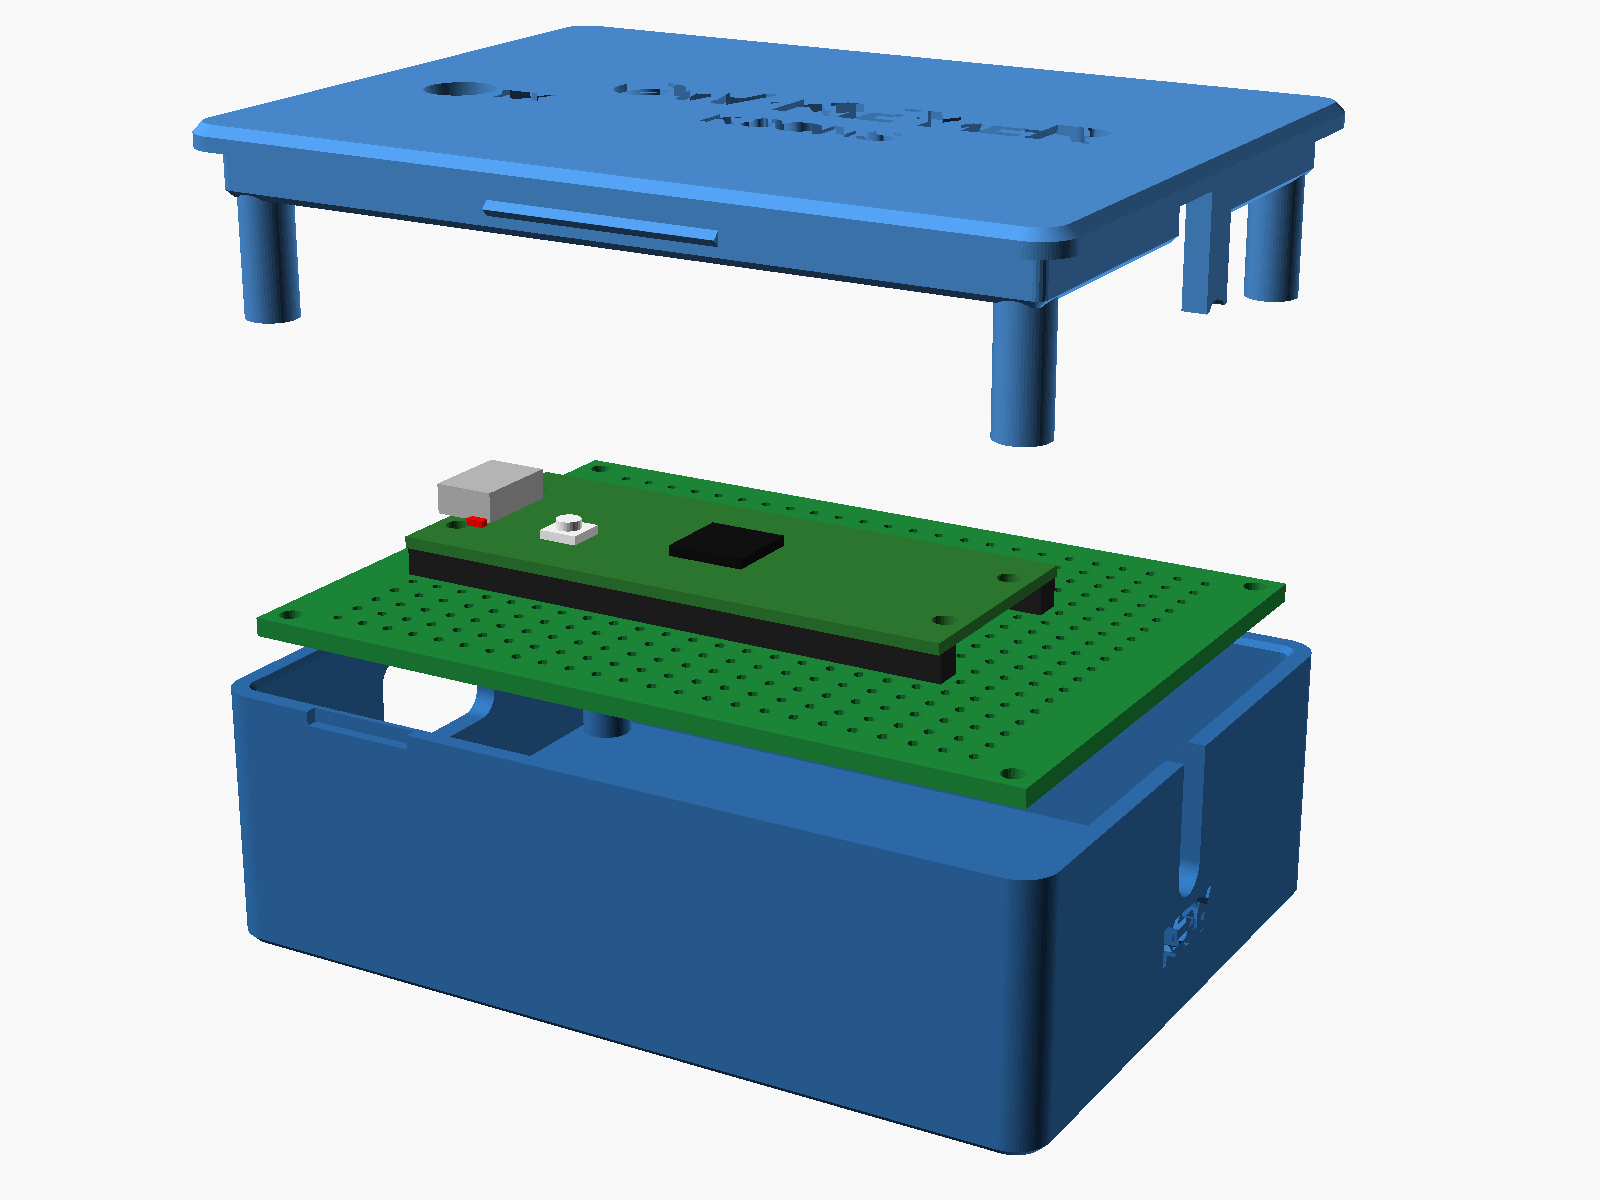
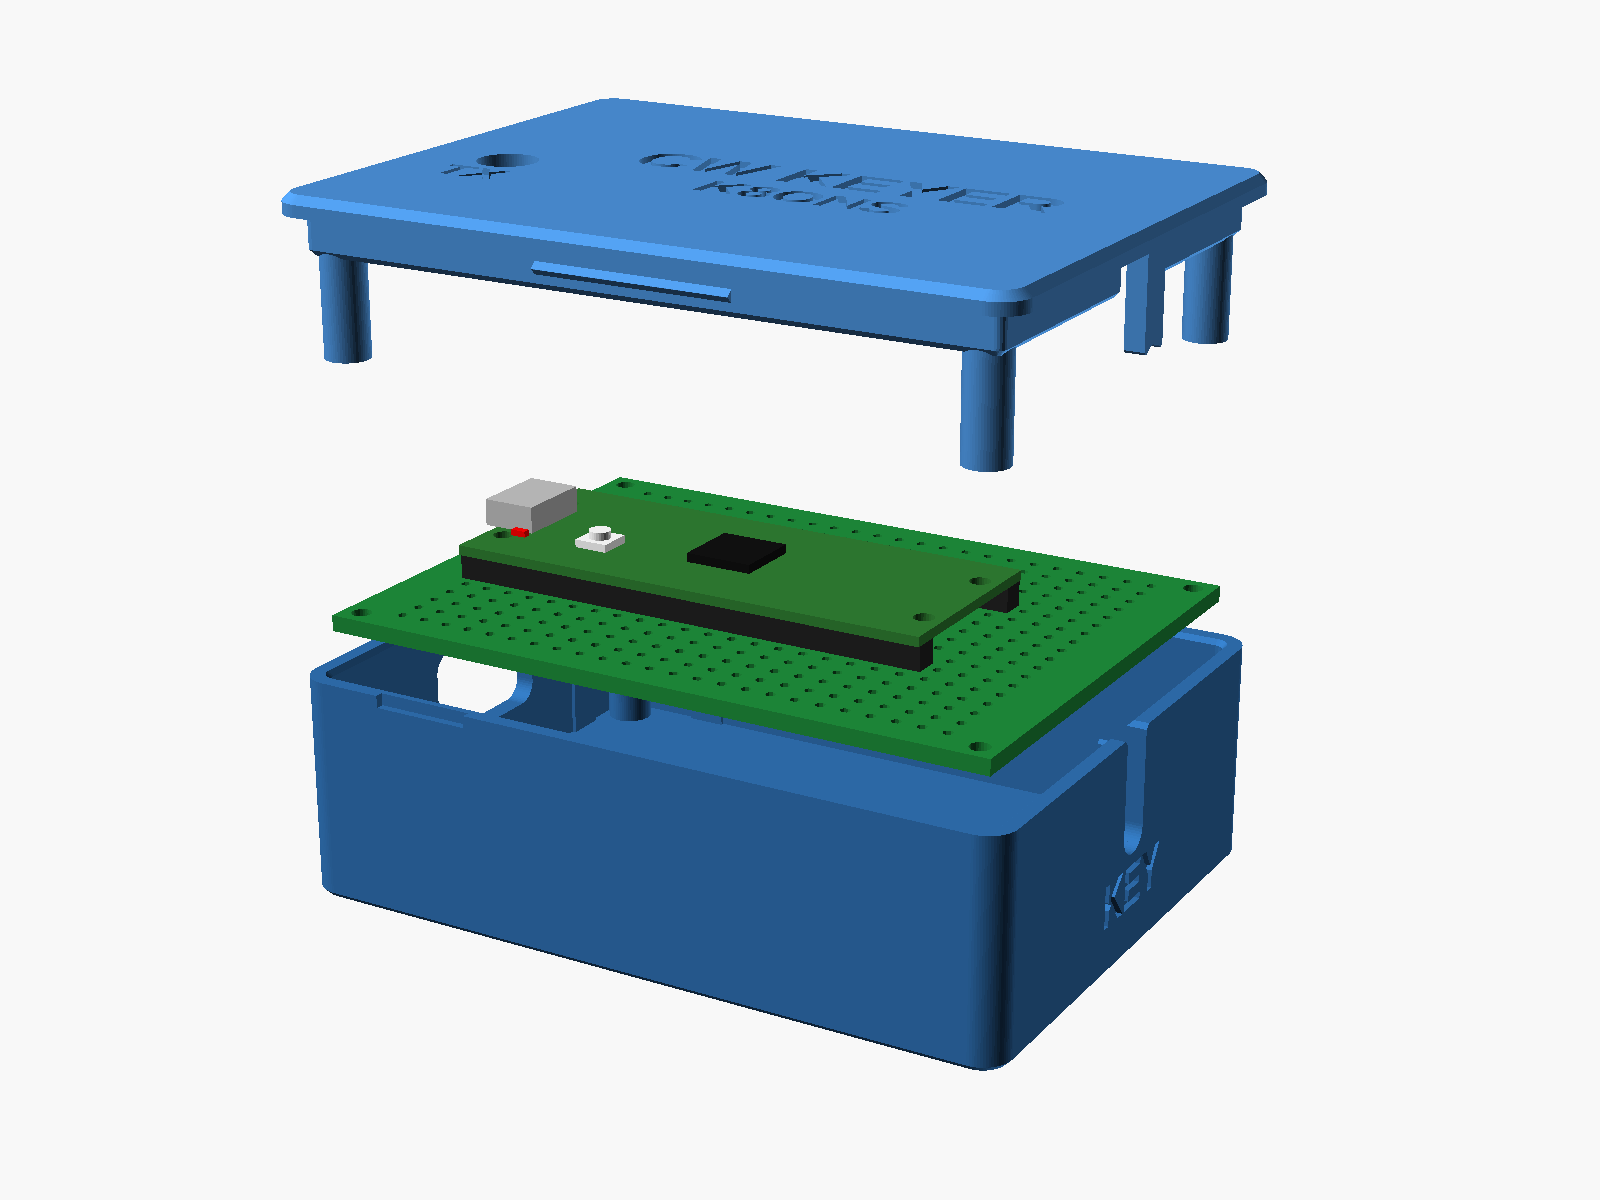
Keyer box enclosure: review fixes, fit checks and new renders
- Lid: snap ridge sits on the skirt's straight part, cable tongue holds
  the key lead down with a lead-in, posts stop just over the board so it
  cannot lift off the pegs.
- Box: edge-stop ribs take the USB plug's push, slot lead-in, pry notch
  clear of the snap ridge, opening labels cut into the walls.
- Pico 2 placement by hole column and row, with the pin-1 hole reported;
  the USB opening and LED window follow it.
- Opening 2 can carry a panel jack body; the lid skirt is cut back round it.
- Console warnings for overlapping openings, openings at the rim or over a
  snap ridge, and layouts the USB plug cannot reach.
- Six fit checks (lid/box, board, Pico, plug, cable, jack bodies), a peg
  test print, and render.sh to remake every picture and run the checks.

Claude-Session: https://claude.ai/code/session_019ASGXfASBfKNiuzesBwt9R

Changed region(s): [[0.125, 0.37, 0.8438, 0.9867], [0.125, 0.0, 0.8438, 0.4008]]

diff --git a/hardware/keyer-box/README.md b/hardware/keyer-box/README.md
@@ -14,25 +14,36 @@ Outside size with the defaults: 75.2 × 55.2 × 24.6 mm.
 - `keyer-box.scad`: the design. Open it in [OpenSCAD](https://openscad.org/)
   (2021.01 or newer), then **Window > Customizer** for sliders and menus.
 - `images/`: renders of the default design.
+- `render.sh` (optional): remakes the images and runs the fit checks.
 
-To make the STL files: set **part** to `box`, press **F6** (Render), then
-**File > Export > Export as STL**. Do the same with `lid`. Both come out already
-turned the way they print.
+To make the STL files: set **part** to `box`, press **F6** (fn+F6 on a Mac, or
+**Design > Render**), then **File > Export > Export as STL**. Do the same with
+`lid`. Both come out already turned the way they print.
 
-## Before you print: measure the board
+## Before you print: measure
 
 The defaults come from the standard 7 × 5 cm double-sided prototype board (24 × 18
 holes on a 2.54 mm grid) and a photo, not from calipers. Check these on yours and
 change them in the Customizer's **Perfboard** tab if they differ:
 
-- `board_l`, `board_w`: the board's size (70 and 50 mm).
-- `hole_d`: the corner holes' diameter (2.0 mm). The pegs are 0.3 mm smaller.
+- `board_l`, `board_w`, `board_t`: the board's size (70 × 50 mm, 1.6 mm thick).
+- `hole_d`: the corner holes' diameter (2.0 mm). Drill-bit shanks make a good gauge.
+  The pegs are 0.4 mm smaller (`pin_clear`).
 - `hole_inset_x`, `hole_inset_y`: from each corner hole's centre to the nearest
-  edges (2.0 mm each way).
+  edges (2.0 mm each way). Easiest measured as hole edge to board edge, plus half
+  the hole's diameter.
 
-And your USB cable: the plug's moulded body goes into the wall, so measure it.
-Yours looked about 15 mm wide in the photo; the opening is 16.5 × 10 mm
-(`usb_hole_w`, `usb_hole_h`). The key lead's diameter goes in `o1_w` (4.0 mm).
+Then print `part = "peg_test"` first (a thin frame with the four pegs, about ten
+minutes) and try your board on it. If it drops on and lifts off easily, the box
+will hold it the same way.
+
+And the cables:
+
+- USB: the plug's moulded body goes into the wall. Yours looked about 15 mm wide in
+  the photo. The 16.5 × 10 mm opening (`usb_hole_w`, `usb_hole_h`) takes a body up
+  to 15 mm wide and 9 mm thick; set `usb_plug_w` and `usb_plug_h` to yours and
+  the fit check tells you if it clears.
+- Key lead: its diameter goes in `o1_w` (4.0 mm).
 
 ## Printing (PETG, Bambu Lab H2C)
 
@@ -44,33 +55,48 @@ Yours looked about 15 mm wide in the photo; the opening is 16.5 × 10 mm
 
 ## Laying out the board
 
-The box assumes this layout, and the USB opening and LED window follow it:
+The box assumes this layout, and the USB opening and LED window follow the Pico:
 
 - **Pico 2** with its USB socket facing the **left** wall, pin 1 in the first hole
   column from the left edge, row 6 from the front edge (so the Pico sits in the
-  middle, on pin headers 2.5 mm above the board). OpenSCAD prints where pin 1
-  lands in its console when you change it. To put the Pico somewhere else, change
-  the **Pico 2 position** tab: `pico_usb_wall`, `pico_inset_holes` or `pico_inset`,
-  `pico_center` and `pico_height` (0 soldered flat, 2.5 on headers, 8.5 in sockets).
+  middle), on pin headers 2.5 mm above the board. OpenSCAD's console says where
+  pin 1 lands whenever you change it. To move it, use the **Pico 2 position** tab:
+  `pico_usb_wall`, `pico_inset_holes` or `pico_inset`, `pico_center` and
+  `pico_height`.
+  - On a 70 × 50 board the USB can face only the left or right wall. The other
+    openings do not move with the Pico: if the USB goes to the right wall, move the
+    key lead (`o1_wall`) to the left.
+  - In sockets (`pico_height` 8.5), set `above` to 17.5 or more. Soldered flat
+    (`pico_height` 0), the Pico's USB end has to sit at the board's edge, or the
+    plug hits the board.
 - **Key lead** out of the **right** wall, 4 mm above the board's top, in a slot
-  that the lid's tongue closes over it and clamps (no knot or cable tie needed).
-  The switch parts (the 2N3904 and its two resistors) go in the free columns near
-  that wall.
+  that the lid's tongue closes over. The tongue holds the lead in its slot; tie a
+  loose overhand knot in the lead just inside the wall as well, so that a tug never
+  reaches the solder joints. The switch parts (the 2N3904 and its two resistors) go
+  in the free columns near that wall.
 - Keep the four corners clear: pegs come up through the corner holes, and the
-  lid's posts press the board down there.
+  lid's posts come down to just over the board there, so it cannot lift off the
+  pegs.
 - Parts may stand up to 14 mm above the board (`above`), and solder joints and
   wires may hang 5 mm below it (`below`).
 
+Small ribs on the walls sit 0.2 mm from the board's edges (`edge_stops`), so
+pushing the USB plug in leans the board on the wall, not on the pegs.
+
 **Opening 2** is a spare round hole for a 3.5 mm panel jack (6.2 mm, for the audio
-input that comes later), switched off. **Opening 3** is another spare. Each has a
-wall, a position along it (mm from the board's left or front edge), a height above
-the board, a size and a shape: `cable` (slot clamped by the lid), `round` or `rect`.
+input that comes later), switched off. With it on, the lid's skirt is cut back to
+clear a jack body up to 10 × 10 mm (`o2_body_w`, `o2_body_h`), and `check_jacks`
+tells you if that body hits anything. **Opening 3** is another spare. Each opening
+has a wall, a position along it (mm from the board's left or front edge), a height
+above the board, a size and a shape: `cable` (slot closed by the lid's tongue),
+`round` or `rect`. OpenSCAD's console warns when two openings overlap, when one
+reaches the rim, or when one cuts a snap ridge.
 
 ## Putting it together
 
-1. Lay the key lead in its slot, the board on the pegs, solder side down.
-2. Press the lid on until it clicks; it only fits one way round (the tongue goes over
-   the key lead).
+1. Lay the key lead in its slot and the board on the pegs, solder side down.
+2. Press the lid on until it clicks. It only fits one way round (the tongue goes
+   over the key lead).
 3. Plug the USB cable into the left wall.
 
 To open: fingernail in the notch at the front edge, lift.
@@ -89,12 +115,17 @@ jack on the key line instead of the lead is a wiring change: ask the audit first
 - `mount = "screws"`: posts with 1.6 mm pilot holes for M2 self-tapping screws
   instead of pegs (the lid's posts are left off).
 - `bootsel_hole`: a hole over the BOOTSEL button (off: take the lid off to
-  re-flash, which also follows the rule to unplug the radio first).
+  re-flash, which also follows the rule to unplug the radio first). Its position
+  is an estimate too: check it against your Pico before turning it on.
 - `lid_label`, `lid_label2`, `led_label`, `wall_labels`: the text cut into it.
+- `snap`, `pry_notch`, `edge_stops`, `led_window`: each can be turned off.
+- `lid_holes` and `extra_openings` (in the file, not the Customizer): more holes
+  in the lid, and more than three wall openings.
 - `part = "section"` and `"section_corner"`: cutaway pictures for checking fit.
 
 ## Fit checks
 
-Each of these renders (F6) to nothing when the parts clear each other: `check_lid_box`,
-`check_board`, `check_pico`, `check_plug` and `check_cable`. All five come out empty
-with the defaults.
+Pick one in the **part** menu and press F6: `check_lid_box`, `check_board`,
+`check_pico`, `check_plug`, `check_cable` and `check_jacks`. Each should leave the
+view empty, and the console should say `Current top level object is empty.` All
+six do with the defaults.
